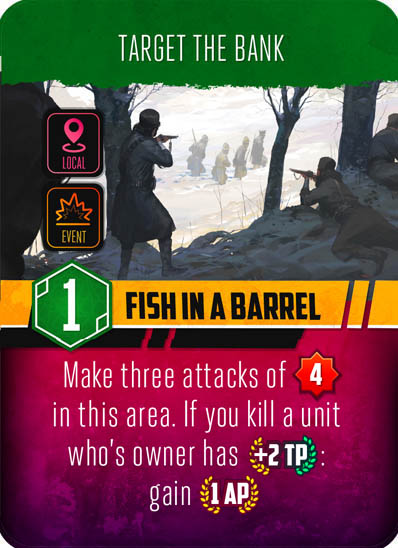
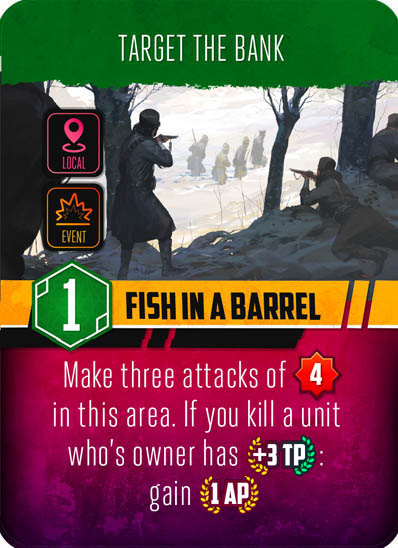
Tweak sish in a barrel

Changed region(s): [[0.603, 0.7755, 0.8141, 0.8686]]

diff --git a/server/classes/cards/FishInABarrel.js b/server/classes/cards/FishInABarrel.js
@@ -13,7 +13,7 @@ class FishInABarrel extends Card {
 
         if( !this.game.data.catchUpCards ) return;
 
-        if( this.killedUnitHigherTP( 2, output ) ){
+        if( this.killedUnitHigherTP( 3, output ) ){
             this.game.sound( 'coin' );
             this.faction.gainAP( 1 );
         }
